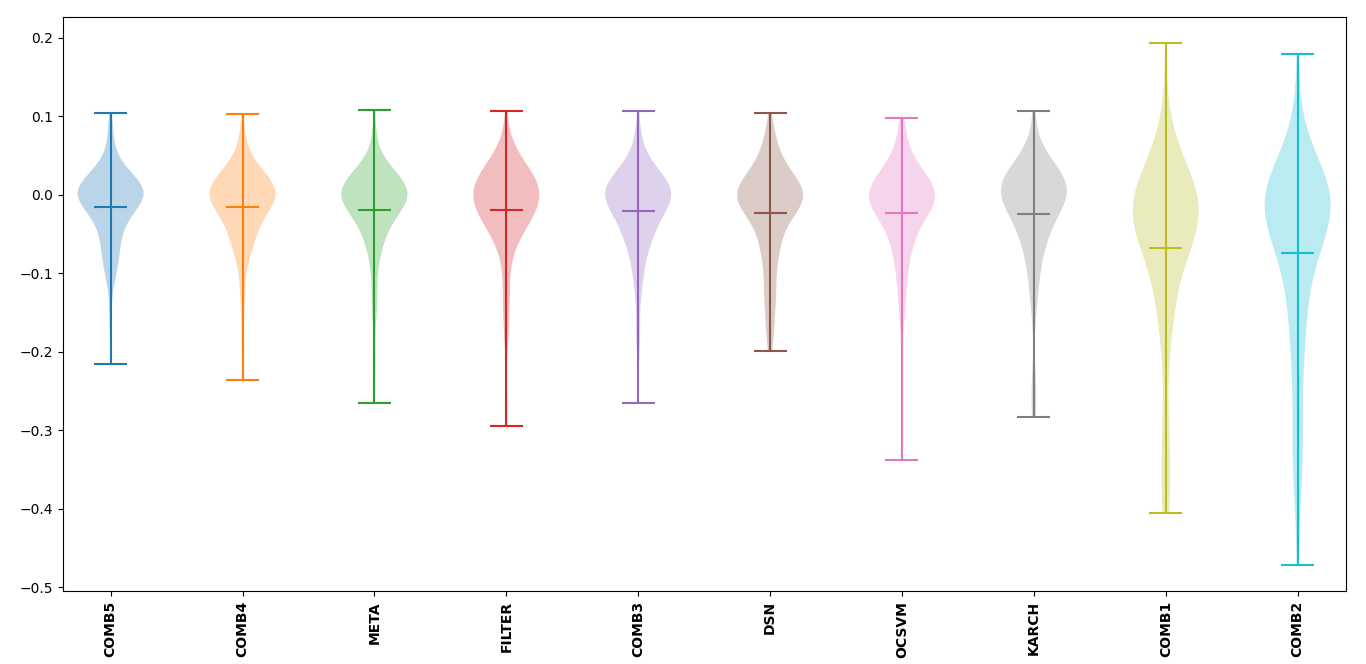
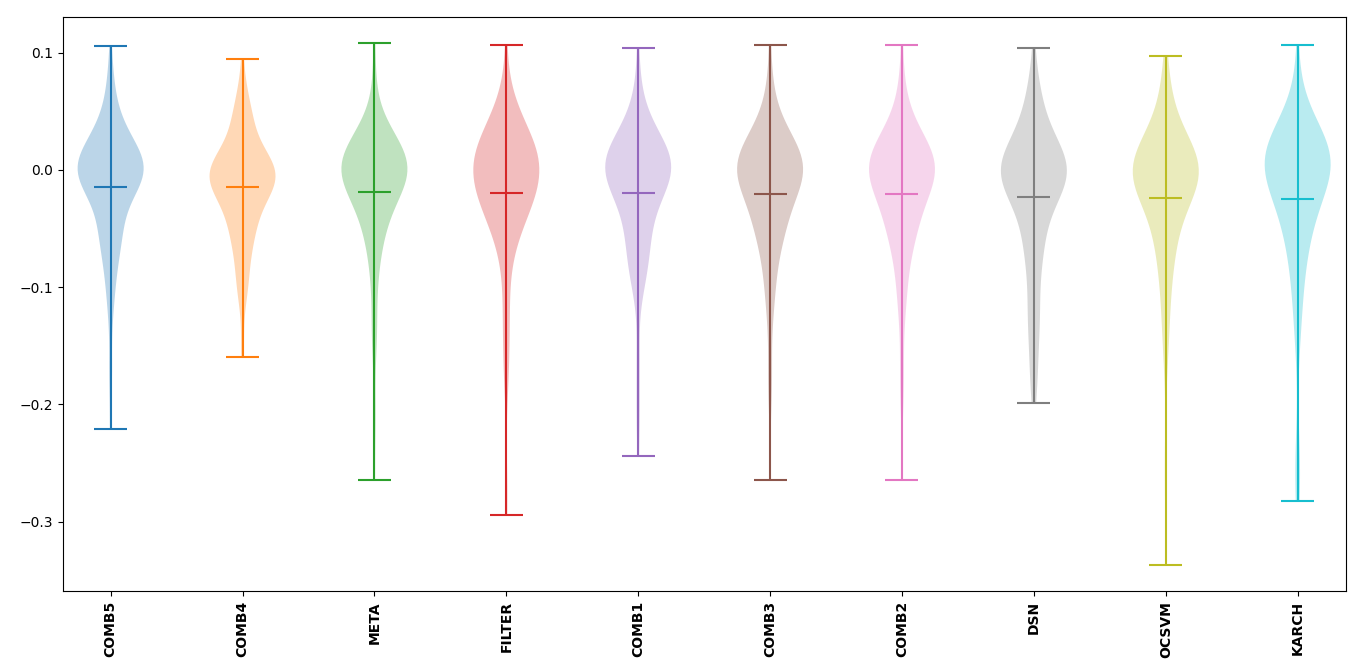
Updated Benchmarks & LaplaceGaussianNB

diff --git a/pythresh/thresholds/comb.py b/pythresh/thresholds/comb.py
@@ -1,8 +1,8 @@
 import numpy as np
 import scipy.stats as stats
+from sklearn.base import BaseEstimator, ClassifierMixin
 from sklearn.ensemble import BaggingClassifier, StackingClassifier
 from sklearn.linear_model import RidgeClassifier
-from sklearn.naive_bayes import GaussianNB
 from sklearn.utils import check_array
 
 from .base import BaseThresholder
@@ -36,8 +36,8 @@ class COMB(BaseThresholder):
            - 'mean':    calculate the mean combined threshold
            - 'median':  calculate the median combined threshold
            - 'mode':    calculate the majority vote or mode of the thresholded labels
-           - 'bagged':  use a bagged GaussianNB to solve the combined threshold
-           - 'stacked': use a stacked Ridge, and GaussianNB classifier combined method
+           - 'bagged':  use a bagged LaplaceGaussianNB to solve the combined threshold
+           - 'stacked': use a stacked Ridge, and LaplaceGaussianNB classifier combined method
 
        random_state : int, optional (default=1234)
             Random seed for the random number generators of the thresholders. Can also
@@ -123,12 +123,12 @@ class COMB(BaseThresholder):
             y = np.hstack(contam)
 
             if (self.method == 'bagged'):
-                model = self.method_func(GaussianNB(),
+                model = self.method_func(LaplaceGaussianNB(),
                                          n_estimators=12,
                                          random_state=self.random_state)
             else:
                 model = self.method_func([('Ridge', RidgeClassifier()),
-                                          ('GNB', GaussianNB())])
+                                          ('GNB', LaplaceGaussianNB())])
 
             model.fit(X.reshape(-1, 1), y)
             lbls = model.predict(decision.reshape(-1, 1))
@@ -150,7 +150,54 @@ class COMB(BaseThresholder):
             inlier_ratio = 1-self.method_func(contam)
 
             idx = int(counts*inlier_ratio)
-            limit = decision[idx] if idx < counts else 1.0
+            ordered = np.sort(decision)
+            limit = ordered[idx] if idx < counts else 1.0
             self.thresh_ = limit
 
             return cut(decision, limit)
+
+
+class LaplaceGaussianNB(BaseEstimator, ClassifierMixin):
+
+    def __init__(self):
+
+        pass
+
+    def fit(self, X, y):
+
+        X = X.squeeze()
+
+        self.models = []
+        self.priors = []
+        self.classes_ = [0, 1]
+        dist = [stats.laplace, stats.norm]
+
+        for c in self.classes_:
+
+            subset_x = X[y == c]
+
+            self.models.append(dist[c](subset_x.mean(),
+                                       subset_x.std()))
+
+            self.priors.append(len(subset_x)/len(X))
+
+        return self
+
+    def predict(self, X):
+
+        likelihoods = self.predict_proba(X)
+
+        return likelihoods.argmax(axis=1)
+
+    def predict_proba(self, X):
+
+        X = X.squeeze()
+
+        likelihoods = []
+
+        for c in self.classes_:
+
+            probs = self.priors[c] * self.models[c].pdf(X)
+            likelihoods.append(probs)
+
+        return np.vstack(likelihoods).T

diff --git a/docs/benchmark.rst b/docs/benchmark.rst
@@ -311,9 +311,8 @@ the first benchmarking test were applied. The selected thresholders that
 were combined were ``META``, ``FILTER``, ``DSN``, ``OCSVM``, and
 ``KARCH`` all using default parameters. It was found that the ``bagged``
 and ``stacked`` methods performed significantly better than any
-individual input thresholder. Also, the ``mean`` and ``median`` methods
-produced the highest variability and in general were worse than any
-individual input thresholder.
+individual input thresholder while the ``mean``, ``median``, ``mode``
+methods produced results that were comparable to their inputs.
 
 +---------------+---------------------------------------+
 | Label         | Method                                |

diff --git a/docs/pythresh.thresholds.rst b/docs/pythresh.thresholds.rst
@@ -63,7 +63,7 @@
 
 .. automodule:: pythresh.thresholds.comb
    :members:
-   :exclude-members:
+   :exclude-members: LaplaceGaussianNB, fit, predict, predict_proba
    :undoc-members:
    :show-inheritance:
    :inherited-members:
